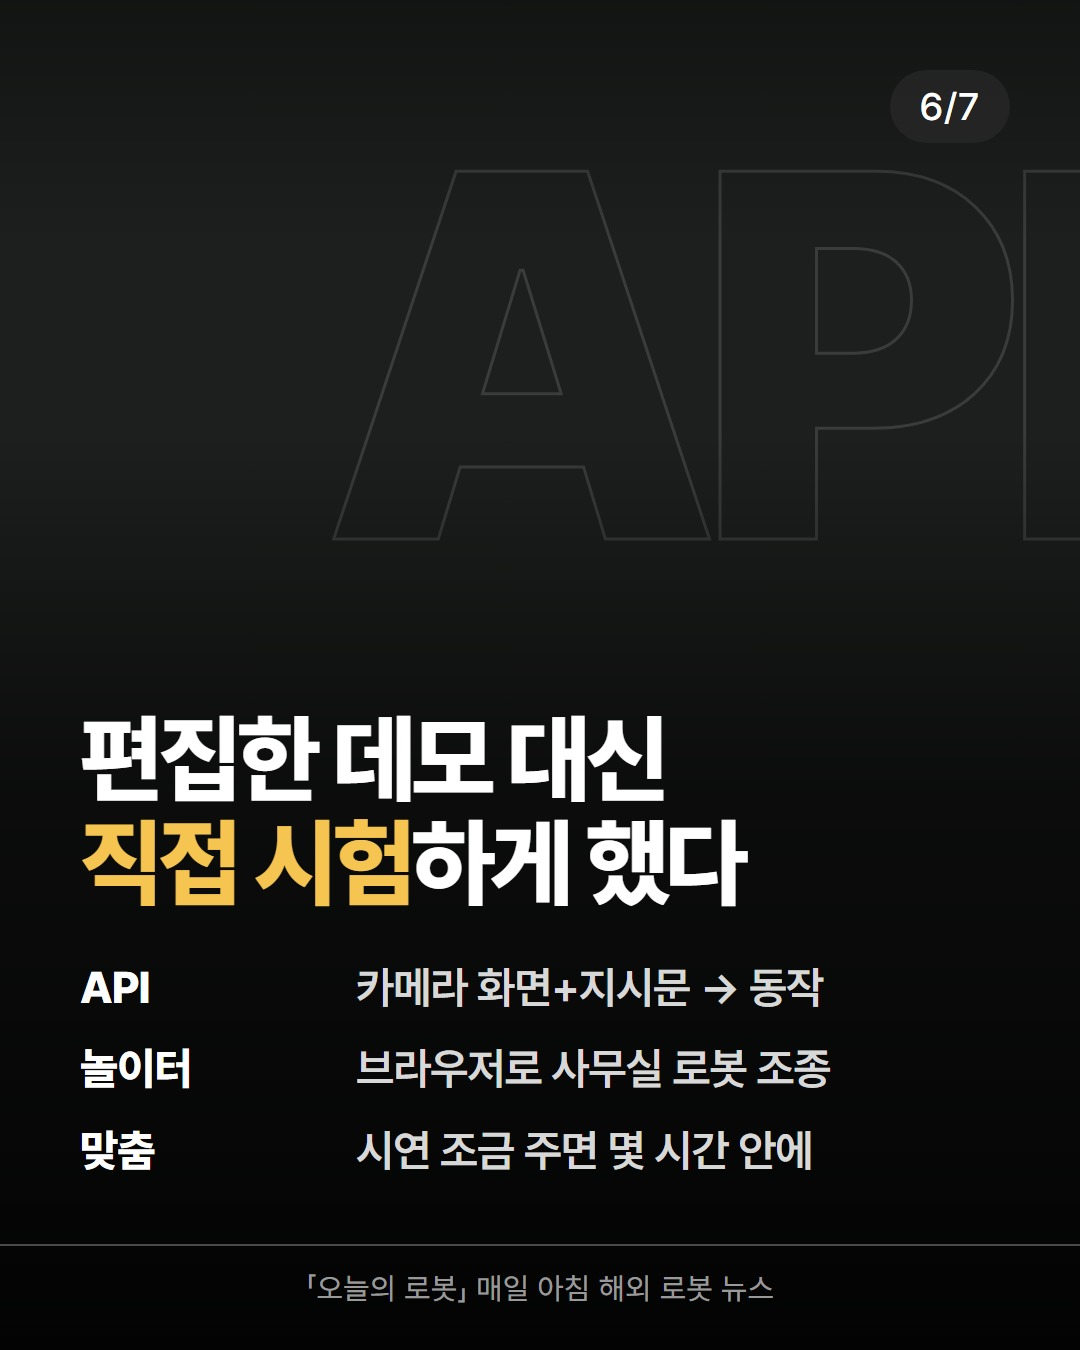
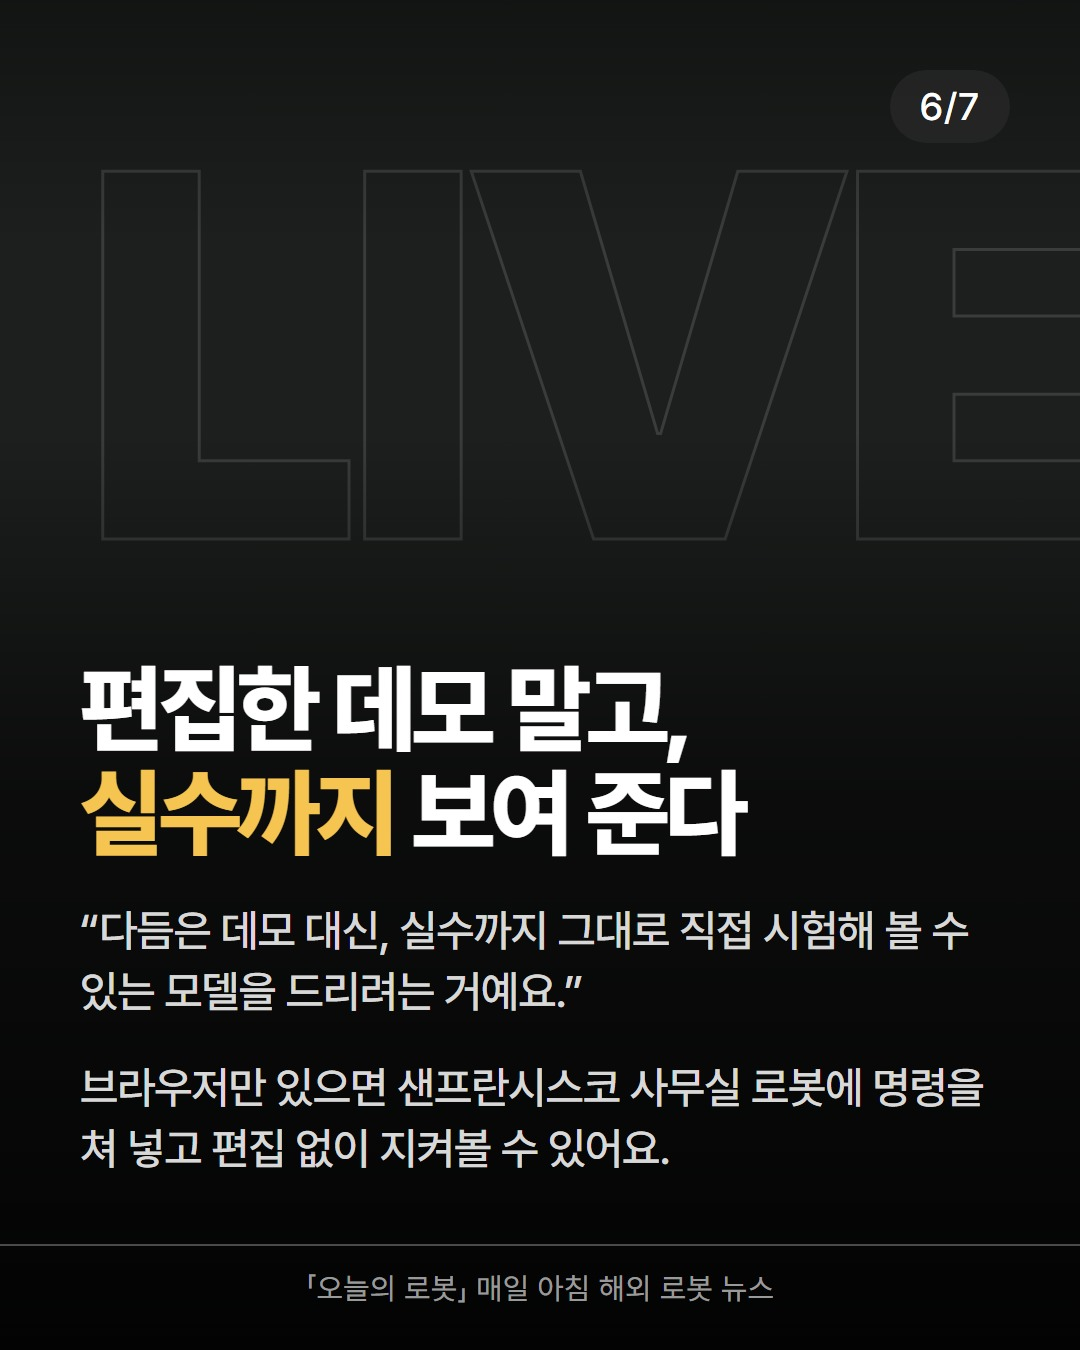
STYLE.md 말투 절을 조쉬 실제 본문 기준으로 다시 씀, No.2를 1인칭 구어·비유 문체로 재작성

diff --git a/STYLE.md b/STYLE.md
@@ -41,9 +41,22 @@
 - 전문 용어는 처음 나올 때 괄호로 풀어 준다. 예: «토트(부품 상자)», «SPAC(기업인수목적회사)».
 - 회사·인물은 처음 나올 때만 영문을 같이 쓴다.
 
-## 4. 말투
+## 4. 말투 — 기사체가 아니라 «사람이 말하는 글»
 
-- 서술은 «~습니다» 60%, «~요/~예요» 25%, «~죠/~거든요» 15%. 세 문장에 한 번은 어미를 푼다.
+2026-10-23 1차본(No.2·No.3)은 요약 도구의 분석만 보고 써서 뉴스 기사체가 됐다. 본인이 «조쉬 말투가 아니다»라고 지적했다.
+그래서 조회수 10.1K 글(«코딩이 100배 빨라지자…») 본문을 직접 읽고 아래 규칙을 다시 뽑았다.
+
+| 조쉬가 하는 것 | ✗ 1차본(기사체) | ○ 이렇게 |
+|---|---|---|
+| **첫 문장 = 사람이 하는 의외의 행동 하나.** 경력은 그다음 문장 끝에 «그 사람이요»처럼 붙인다 | 드림 랩스가 시드 9천만 달러를 받았습니다 | 조엘 장은 로봇을 렌터카에 빗대 설명합니다. 엔비디아에서 로봇 학습을 연구하던 팀을 이끄는 그 사람이요. |
+| **명제는 «~다는 것.»으로 끊는다** | 두뇌가 병목이 됐습니다 | 몸은 준비됐는데, 두뇌가 없다는 것. |
+| **본문은 인물의 1인칭 말.** 원문 인용을 «~요/~죠/~거든요/~더라고요» 구어로 옮긴다 | 회사는 ~라고 설명했습니다 | “하드웨어는 준비됐어요. 빠진 건 아무 로봇이나 쓸 수 있는 두뇌죠.” |
+| **비유·구체 사례로 설명한다** (레고 블록, 대출 심사 5단계 같은 것) | 범용성이 높습니다 | 렌터카를 타도 운전은 다시 안 배우잖아요. |
+| **청자를 끌어들이는 말** — «다들 ~해 보셨을 거예요», «이렇게 생각해 보세요», «솔직히» | (없음) | 공장 로봇 다들 한 번쯤 보셨을 거예요. |
+| **그림 밑 한 줄 요약**: 그 장의 요점을 짧은 두 문장으로 | (없음) | 한 단계만 바꾸면 소소한 개선. 흐름을 통째로 바꿔야 판이 바뀐다. |
+
+- 어미: 사람 말(인용)은 «~요» 위주, 지문(설명)은 «~습니다». 한 장 안에서 둘을 섞는다.
+- 큰따옴표 발언은 **원문에 있는 인용만** 한국어 구어로 옮긴다. 원문에 인용이 없으면 1인칭으로 쓰지 않고 지문으로 쓴다.
 - 한 단락은 1~3문장이다. 한 줄짜리 결론 문장을 혼자 세운다.
 - 묻는 소제목을 쓸 수 있다(«왜 하필 트랙터 공장일까»). 물음표는 표지에서만 쓴다.
 - 이모지·느낌표는 쓰지 않는다. 과장어(최초·혁명·충격)도 쓰지 않는다.
